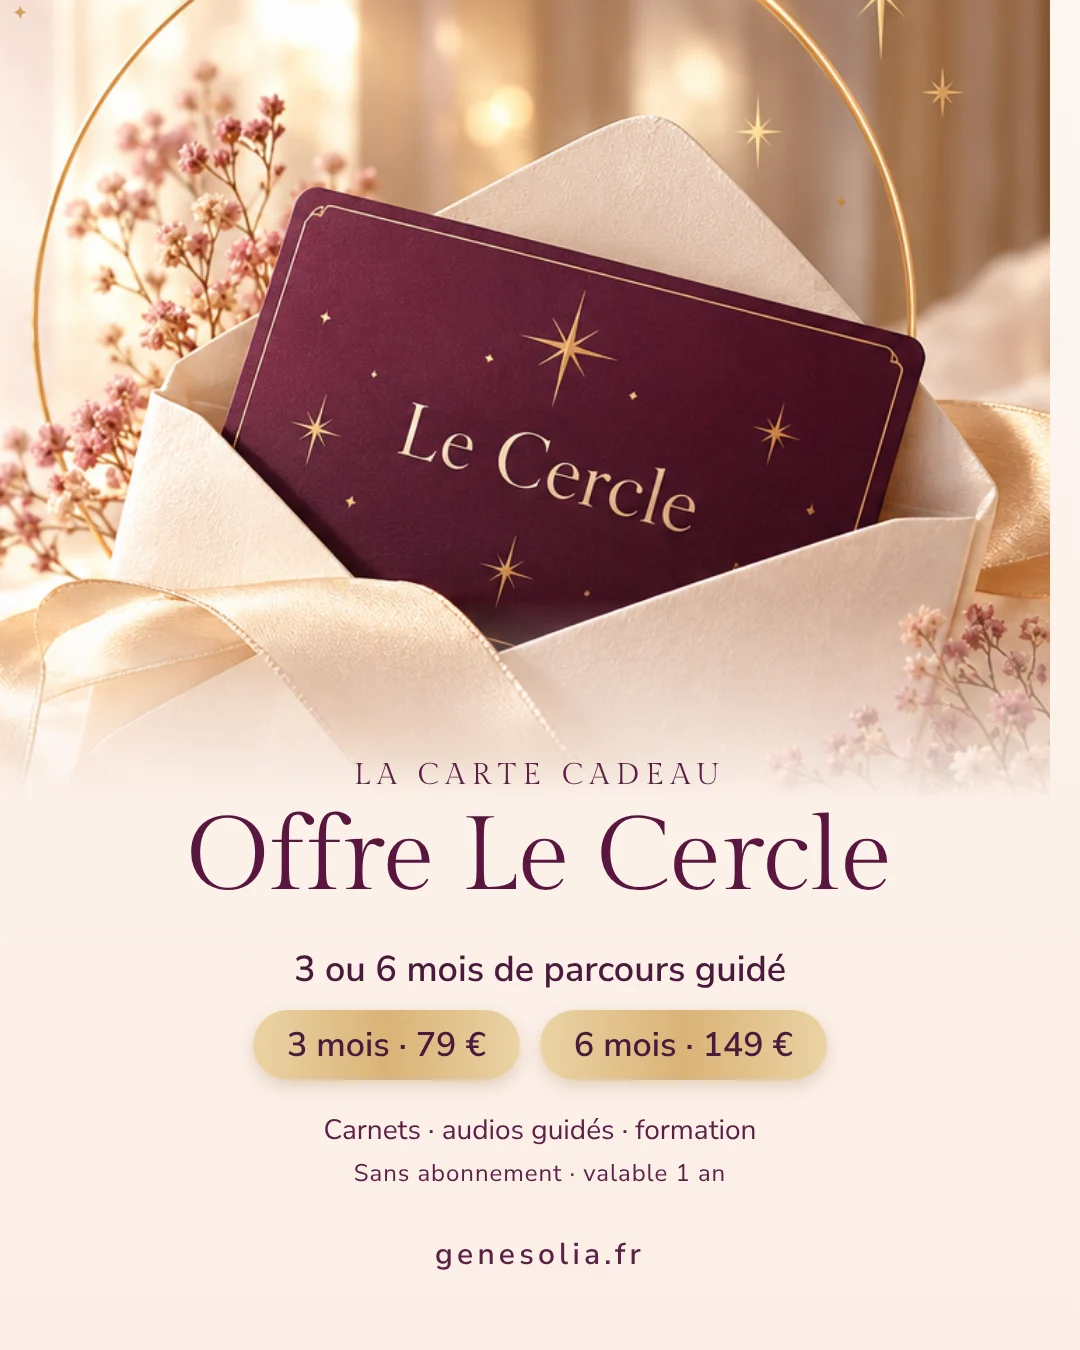
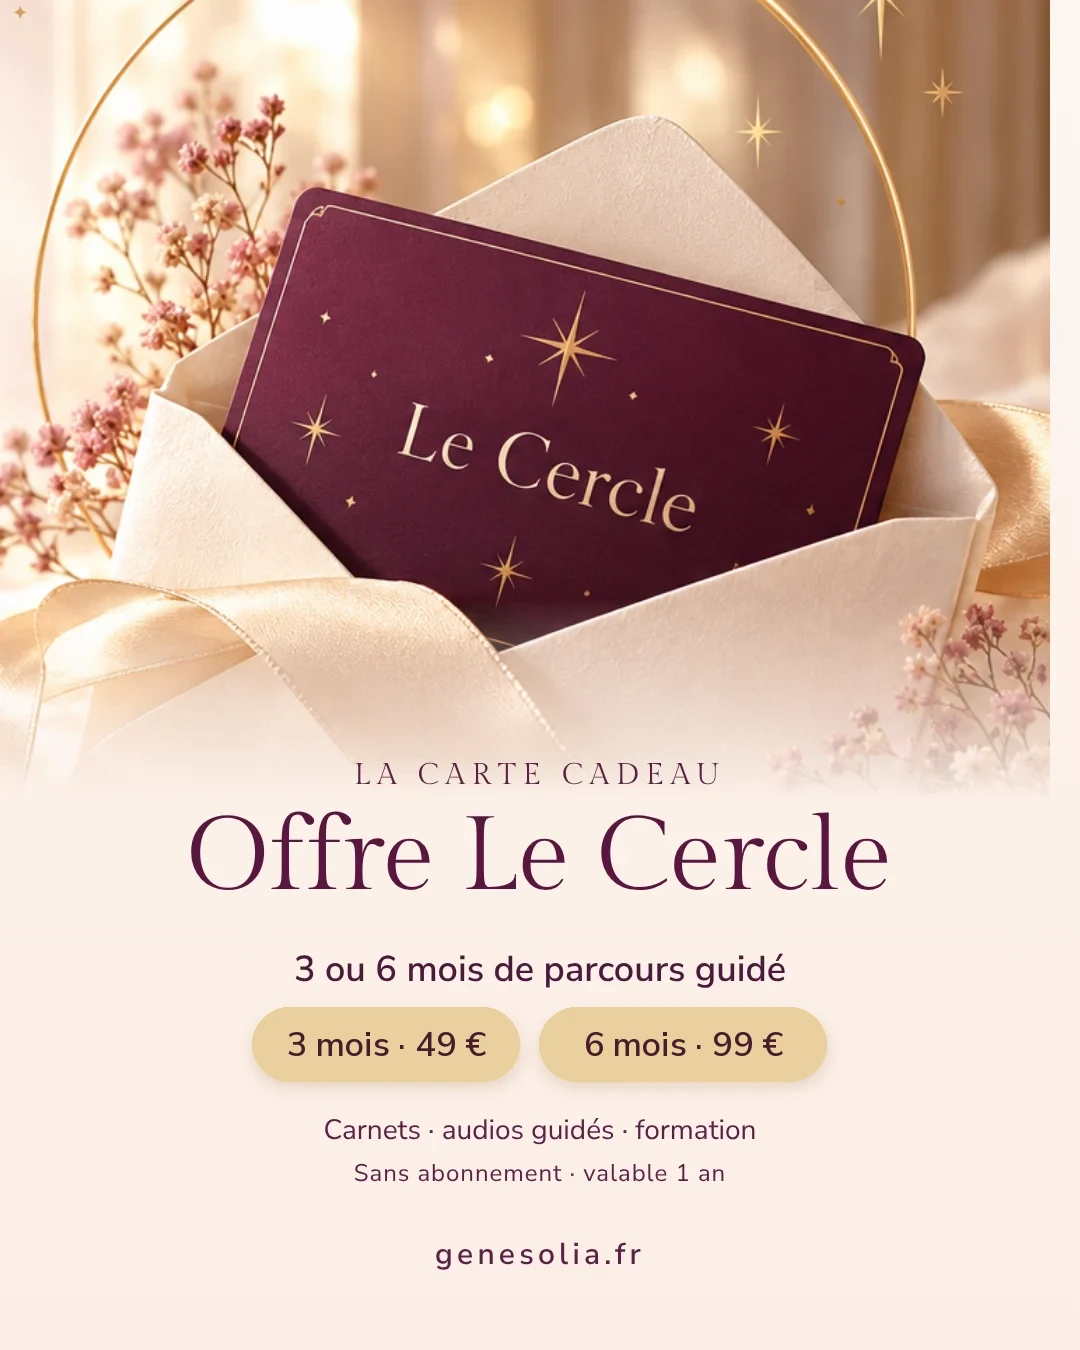
Carte cadeau du Cercle : 3 mois 49 €, 6 mois 99 € (site, images, CGV, tarifs, fonction)
Claude-Session: https://claude.ai/code/session_014ymUdsnHm99oUpWnRmbMsx

Changed region(s): [[0.5194, 0.7467, 0.7333, 0.8089], [0.275, 0.7467, 0.4583, 0.8089]]

diff --git a/boutique.html b/boutique.html
@@ -220,15 +220,15 @@
     </div></section>
     <section class="bloc" id="carte-cadeau" style="padding-top:0"><div class="conteneur">
       <div class="of-sec">
-        <img class="cg-visuel" src="assets/noel/carte-cadeau-cercle-768.webp?v=2" srcset="assets/noel/carte-cadeau-cercle-768.webp?v=2 768w, assets/noel/carte-cadeau-cercle-1536.webp?v=2 1536w" sizes="(max-width:1200px) 100vw, 1150px" width="1536" height="1024" alt="Offre Le Cercle : la carte cadeau, 3 mois à 79 €, 6 mois à 149 €, sans abonnement, valable 1 an">
+        <img class="cg-visuel" src="assets/noel/carte-cadeau-cercle-768.webp?v=3" srcset="assets/noel/carte-cadeau-cercle-768.webp?v=3 768w, assets/noel/carte-cadeau-cercle-1536.webp?v=3 1536w" sizes="(max-width:1200px) 100vw, 1150px" width="1536" height="1024" alt="Offre Le Cercle : la carte cadeau, 3 mois à 49 €, 6 mois à 99 €, sans abonnement, valable 1 an">
         <h2>La carte cadeau du Cercle</h2>
         <p class="of-intro">Offre quelques mois du Cercle : un parcours guidé, mois par mois, pour comprendre ce qui se répète dans sa vie et dans sa lignée. Un carnet chaque mois, deux séances audio guidées, la formation « Sors de la boucle ». Pas d’abonnement : la personne active sa carte quand elle le souhaite dans l’année, Le Cercle s’ouvre une étape chaque mois, et rien n’est prélevé ensuite.</p>
         <div class="cg">
           <div class="cg-apercu"><div id="cg-carte"></div><small>La carte, telle qu’elle la recevra</small></div>
           <form class="cg-form" id="cg-form" novalidate>
             <div class="cg-choix" role="radiogroup" aria-label="Durée">
-              <label><input type="radio" name="offre" value="cercle3" checked><b>3 mois</b><span>pour commencer en douceur</span><em>79 €</em></label>
-              <label><input type="radio" name="offre" value="cercle6"><b>6 mois</b><span>le temps d’aller au fond</span><em>149 €</em></label>
+              <label><input type="radio" name="offre" value="cercle3" checked><b>3 mois</b><span>pour commencer en douceur</span><em>49 €</em></label>
+              <label><input type="radio" name="offre" value="cercle6"><b>6 mois</b><span>le temps d’aller au fond</span><em>99 €</em></label>
             </div>
             <div class="cg-2">
               <div><label class="cg-l" for="cg-pour">Pour</label><input type="text" id="cg-pour" maxlength="40" placeholder="Son prénom" autocomplete="off"></div>
@@ -250,7 +250,7 @@
               </div>
             </div>
             <div class="cg-pied">
-              <button type="submit" class="btn btn-plein" id="cg-payer">Offrir 3 mois · 79 €</button>
+              <button type="submit" class="btn btn-plein" id="cg-payer">Offrir 3 mois · 49 €</button>
               <p>Paiement sécurisé par Stripe, en une fois. Tu reçois la carte par e-mail dès le paiement.</p>
               <p class="cg-err" id="cg-err" role="alert" hidden></p>
             </div>

diff --git a/index.html b/index.html
@@ -380,7 +380,7 @@
       <div class="noel-grille">
         <a href="https://www.amazon.fr/dp/B0HP7WPZQD" target="_blank" rel="noopener"><img src="assets/noel/noel-racines-540.webp" srcset="assets/noel/noel-racines-540.webp 540w, assets/noel/noel-racines-1080.webp 1080w" sizes="(max-width:900px) 50vw, 25vw" width="540" height="675" loading="lazy" alt="Noël : le livre Racines, à offrir, sur Amazon"></a>
         <a href="enquete-de-ma-lignee.html"><img src="assets/noel/noel-enquete-540.webp" srcset="assets/noel/noel-enquete-540.webp 540w, assets/noel/noel-enquete-1080.webp 1080w" sizes="(max-width:900px) 50vw, 25vw" width="540" height="675" loading="lazy" alt="Noël : le livre L’enquête de ma lignée, à remplir en famille"></a>
-        <a href="boutique.html#carte-cadeau"><img src="assets/noel/noel-cercle-540.webp?v=2" srcset="assets/noel/noel-cercle-540.webp?v=2 540w, assets/noel/noel-cercle-1080.webp?v=2 1080w" sizes="(max-width:900px) 50vw, 25vw" width="540" height="675" loading="lazy" alt="Offre Le Cercle : carte cadeau 3 mois à 79 €, 6 mois à 149 €"></a>
+        <a href="boutique.html#carte-cadeau"><img src="assets/noel/noel-cercle-540.webp?v=3" srcset="assets/noel/noel-cercle-540.webp?v=3 540w, assets/noel/noel-cercle-1080.webp?v=3 1080w" sizes="(max-width:900px) 50vw, 25vw" width="540" height="675" loading="lazy" alt="Offre Le Cercle : carte cadeau 3 mois à 49 €, 6 mois à 99 €"></a>
         <a href="ma-spirale.html"><img src="assets/pass/ma-spirale-visuel-540.webp" srcset="assets/pass/ma-spirale-visuel-540.webp 540w, assets/pass/ma-spirale-visuel-1080.webp 1080w" sizes="(max-width:900px) 50vw, 25vw" width="540" height="675" loading="lazy" alt="Noël : Ma spirale, l’appli pour ton enquête de lignée"></a>
       </div>
     </div></section>

diff --git a/tarifs.html b/tarifs.html
@@ -156,7 +156,7 @@
         <p class="tf-role">Pour être accompagnée sur 12 étapes et sortir de tes boucles.</p>
         <p class="tf-prix">24,90 € <small>par mois, sans engagement</small></p>
         <p class="tf-noel"><span class="promo-noel">✦ Cadeau de Noël</span> après ton mois offert : <s>24,90 €</s> <b>17,77 € par mois</b>, pour toute inscription jusqu’au 31 décembre</p>
-        <ul class="tf-autres"><li>ou 199 € par an au lieu de 249 €, offre de Noël jusqu’au 31 décembre (renouvelé chaque année)</li><li>à offrir : <a href="boutique.html#carte-cadeau">carte cadeau 3 mois (79 €) ou 6 mois (149 €)</a></li></ul>
+        <ul class="tf-autres"><li>ou 199 € par an au lieu de 249 €, offre de Noël jusqu’au 31 décembre (renouvelé chaque année)</li><li>à offrir : <a href="boutique.html#carte-cadeau">carte cadeau 3 mois (49 €) ou 6 mois (99 €)</a></li></ul>
         <ul class="tf-liste">
           <li>Ton parcours en 12 étapes : carnet Renaissance et livret Libération</li>
           <li>2 séances audio par mois, une pour chaque cycle</li>

diff --git a/cgv.html b/cgv.html
@@ -59,7 +59,7 @@
       <tr><td>Le Cercle, cadeau de Noël (inscription jusqu’au 31 décembre 2026)</td><td>17,77 € par mois</td><td>30 $ par mois</td></tr>
       <tr><td>Le Cercle sur 12 mois, engagement 12 mois</td><td>24 € par mois</td><td>40 $ par mois</td></tr>
       <tr><td>Le Cercle à l’année</td><td>199 € par an pour toute inscription jusqu’au 31 décembre 2026 (offre de Noël), puis 249 € par an</td><td>335 $ par an, puis 419 $ par an</td></tr>
-      <tr><td>Carte cadeau du Cercle : 3 mois, 6 mois</td><td>79 €, 149 €</td><td>Payée en euros</td></tr>
+      <tr><td>Carte cadeau du Cercle : 3 mois, 6 mois</td><td>49 €, 99 €</td><td>Payée en euros</td></tr>
       <tr><td>Rapport de ton arbre, livret de l’arbre de vie, analyse maya à deux, carnet du mois</td><td>9 € chacun</td><td>16 $ chacun</td></tr>
       <tr><td>Livret de numérologie, livret du thème astral, arbre à encadrer</td><td>12 € chacun</td><td>21 $ chacun</td></tr>
       <tr><td>Les 12 saisons</td><td>15 €</td><td>26 $</td></tr>

diff --git a/outils-internes/fonction-carte-cadeau/index.ts b/outils-internes/fonction-carte-cadeau/index.ts
@@ -19,8 +19,8 @@ const SITE = "https://genesolia.fr";
 
 /* Les cartes en vente : changer un prix ici suffit (en centimes) */
 export const CARTES: Record<string, { mois: number; prix: number; nom: string }> = {
-  cercle3: { mois: 3, prix: 7900, nom: "Carte cadeau Le Cercle · 3 mois" },
-  cercle6: { mois: 6, prix: 14900, nom: "Carte cadeau Le Cercle · 6 mois" },
+  cercle3: { mois: 3, prix: 4900, nom: "Carte cadeau Le Cercle · 3 mois" },
+  cercle6: { mois: 6, prix: 9900, nom: "Carte cadeau Le Cercle · 6 mois" },
 };
 const MEMBRE = ["cercle", "offert", "admin", "abonnement"];
 const CORS = { "Access-Control-Allow-Origin": "*", "Access-Control-Allow-Headers": "authorization, content-type, apikey, x-client-info", "Access-Control-Allow-Methods": "POST, OPTIONS" };

diff --git a/assets/carte-cadeau.js b/assets/carte-cadeau.js
@@ -2,7 +2,7 @@
    Les prix affichés ici doivent rester les mêmes que dans la fonction (outils-internes/fonction-carte-cadeau, CARTES). */
 (function () {
   var FN = 'https://qsvzzkjtjsznfntahvvh.supabase.co/functions/v1/carte-cadeau';
-  var OFFRES = { cercle3: { mois: 3, prix: '79 €' }, cercle6: { mois: 6, prix: '149 €' } };
+  var OFFRES = { cercle3: { mois: 3, prix: '49 €' }, cercle6: { mois: 6, prix: '99 €' } };
   function esc(t) { return String(t == null ? '' : t).replace(/[&<>"']/g, function (c) { return { '&': '&amp;', '<': '&lt;', '>': '&gt;', '"': '&quot;', "'": '&#39;' }[c]; }); }
   /* petites étoiles et flocons dorés, toujours au même endroit pour une même carte */
   function ciel() {
